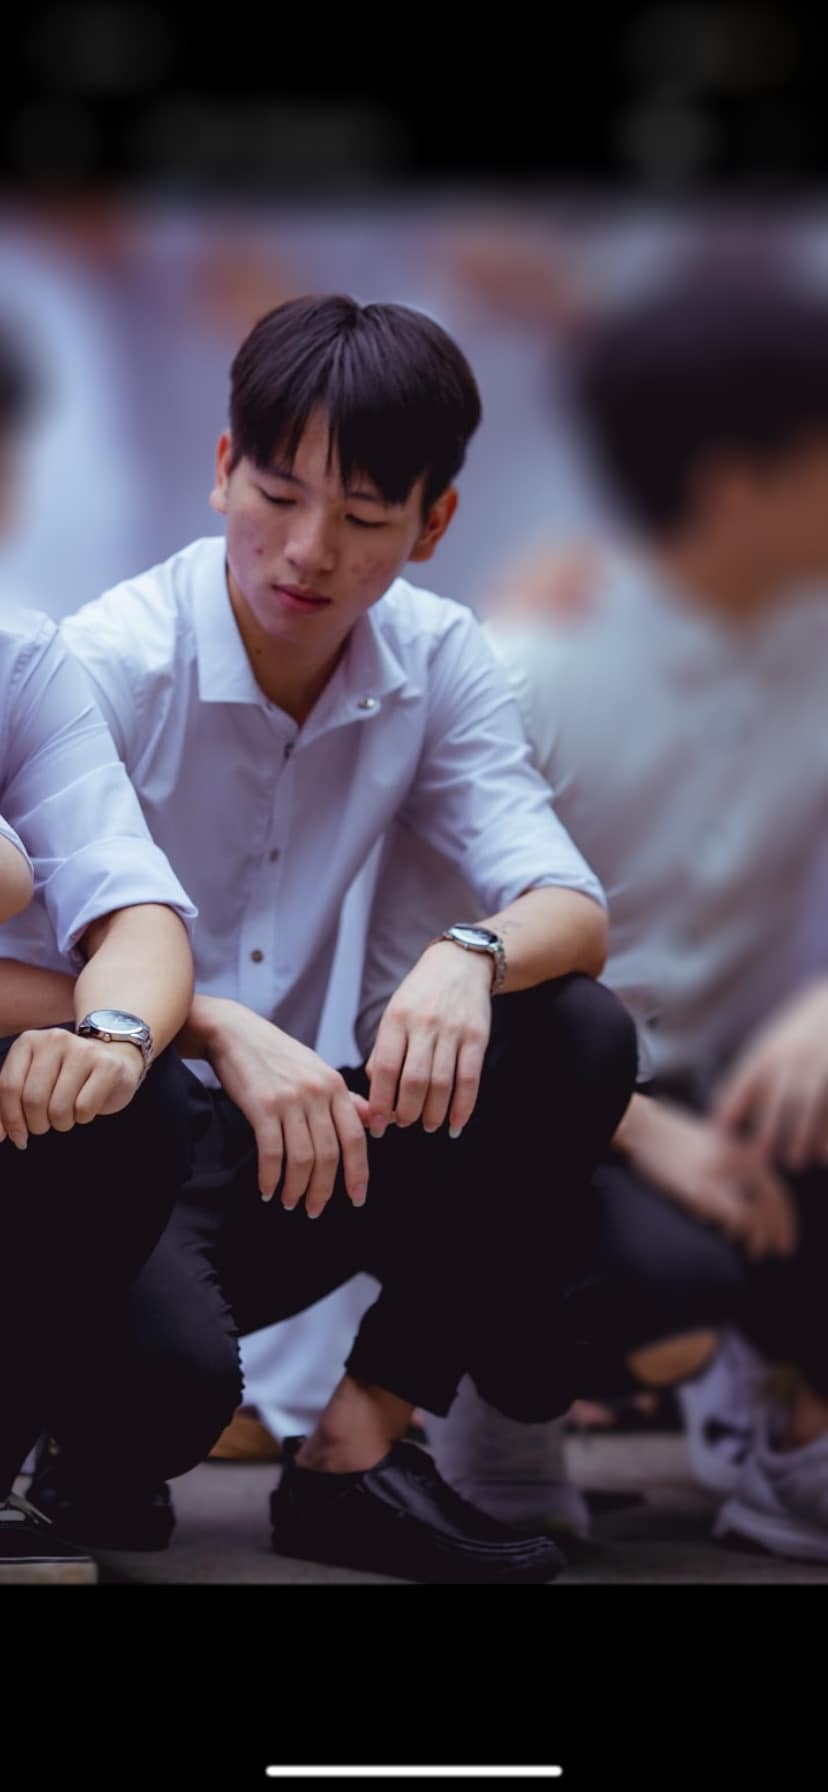
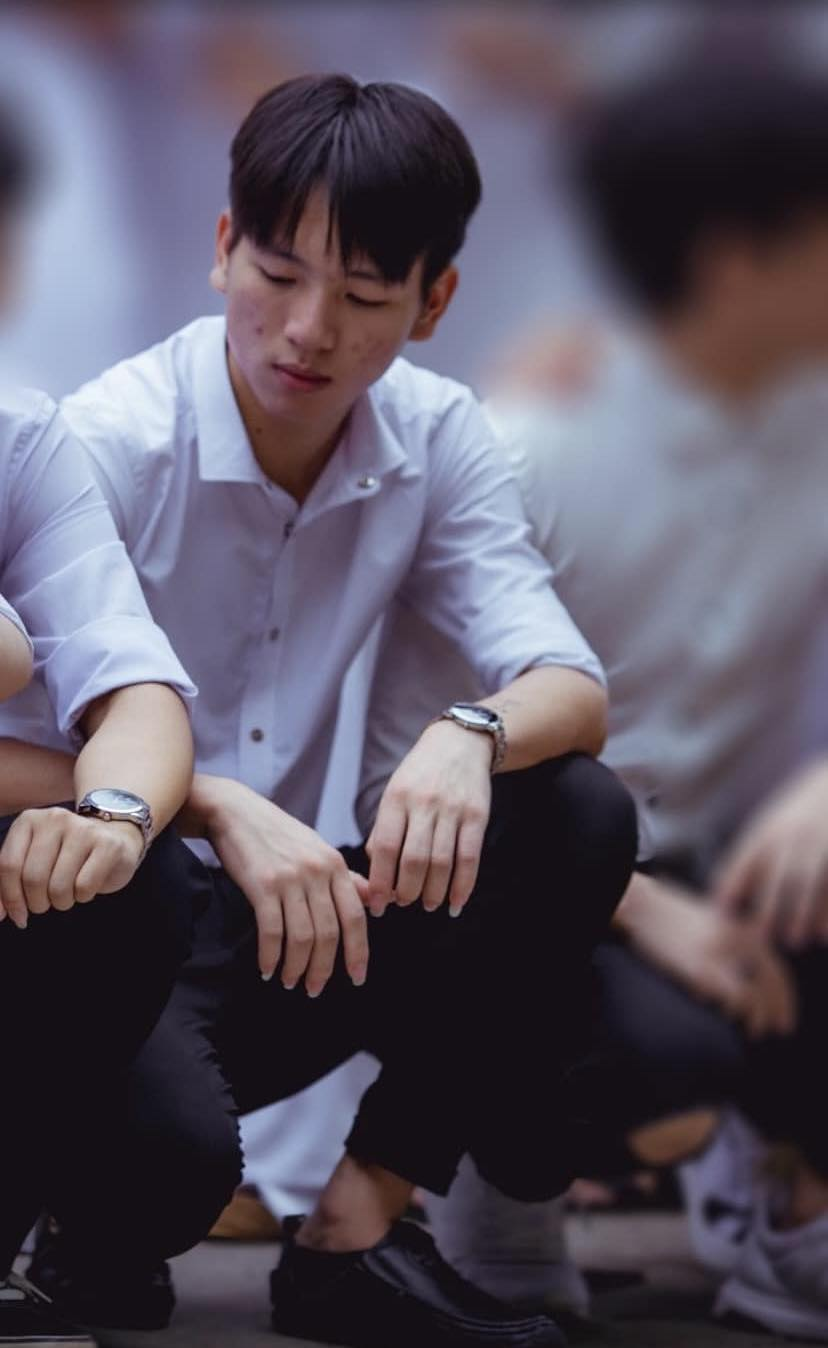
update anh thuc

diff --git a/resources/views/home/about.blade.php b/resources/views/home/about.blade.php
@@ -75,7 +75,6 @@
                 display: block;
             }
         }
-
     </style>
 </head>
 
@@ -96,14 +95,18 @@
     <div class="row">
         <div class="column">
             <div class="card">
-                <img src="{{ asset('images/thuc.png') }}" alt="John" style="width:100%;height:500px;">
+                <img src="{{ asset('images/thuc.png') }}" alt="John" style="width:100%;height:520px;">
                 <div class="container">
                     <h2>TA VAN THUC</h2>
                     <p class="title">CEO & Art Director</p>
                     <p>ECCコンピュータ専門学校</p>
                     <p>IT開発研究コース</p>
                     <p>mike@example.com</p>
-                    <p><button class="button">Contact</button></p>
+                    <p>
+                        <a href="https://www.facebook.com/connhanguota.102" target="_blank">
+                            <button class="button" type="button">Contact</button>
+                        </a>
+                    </p>
                 </div>
             </div>
         </div>
@@ -141,10 +144,7 @@
                 </div>
             </div>
         </div>
-
-
     </div>
-
 </body>
 
 </html>
